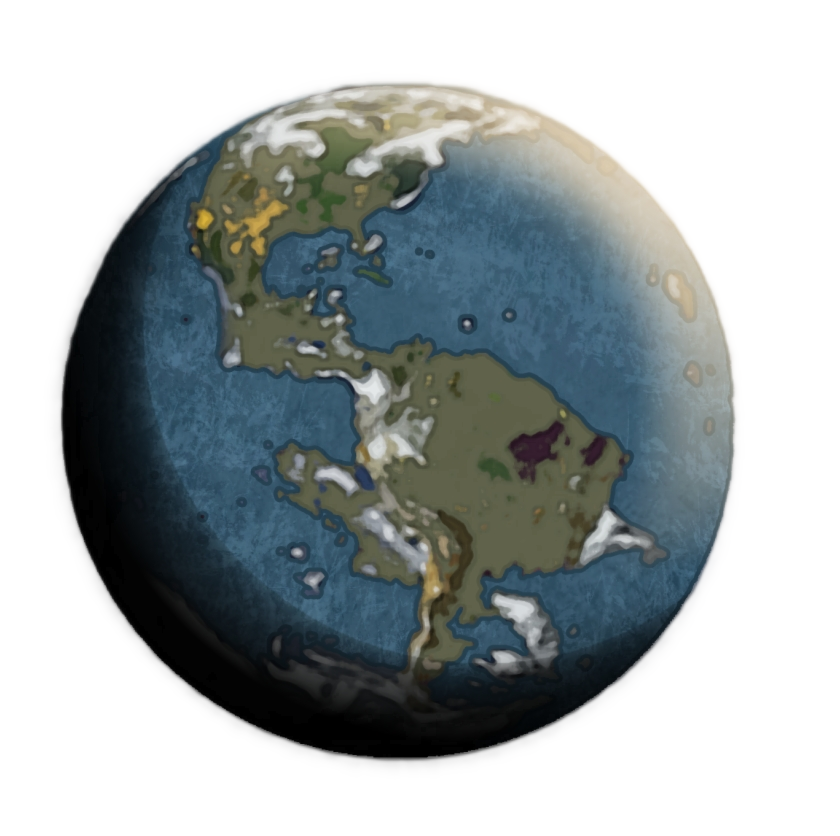
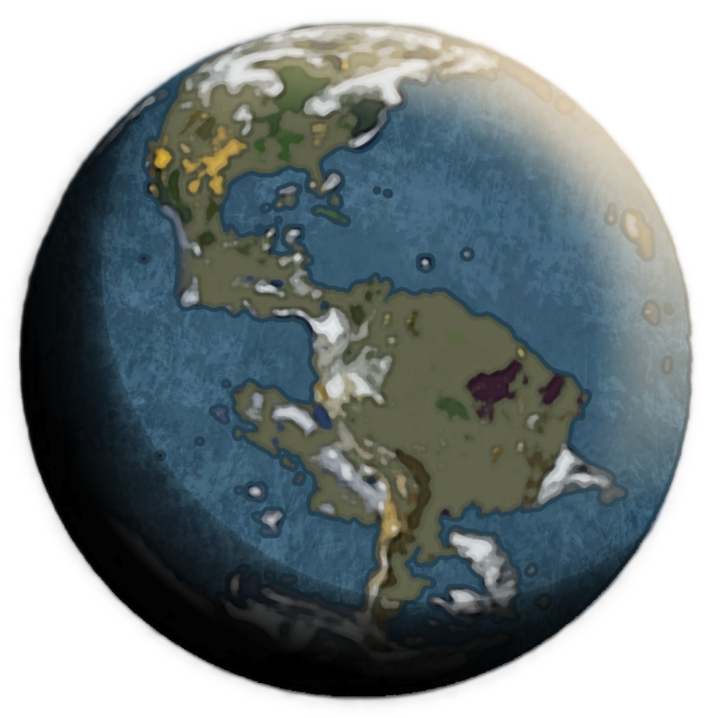
Fix BigRubbish, Earth png. Align Background to scale.

diff --git a/core/src/com/bullethell/game/scene/MainMenu.java b/core/src/com/bullethell/game/scene/MainMenu.java
@@ -50,7 +50,7 @@ public class MainMenu extends Scene {
         Gdx.gl.glClearColor(0, .25f, 0, 1);
         Gdx.gl.glClear(GL20.GL_COLOR_BUFFER_BIT);
         batch.begin();
-        batch.draw(backgroundTexture, 0, 0, Gdx.graphics.getWidth(), Gdx.graphics.getHeight());
+        batch.draw(backgroundTexture, -900, 0);
         batch.end();
 
         stage.act();
